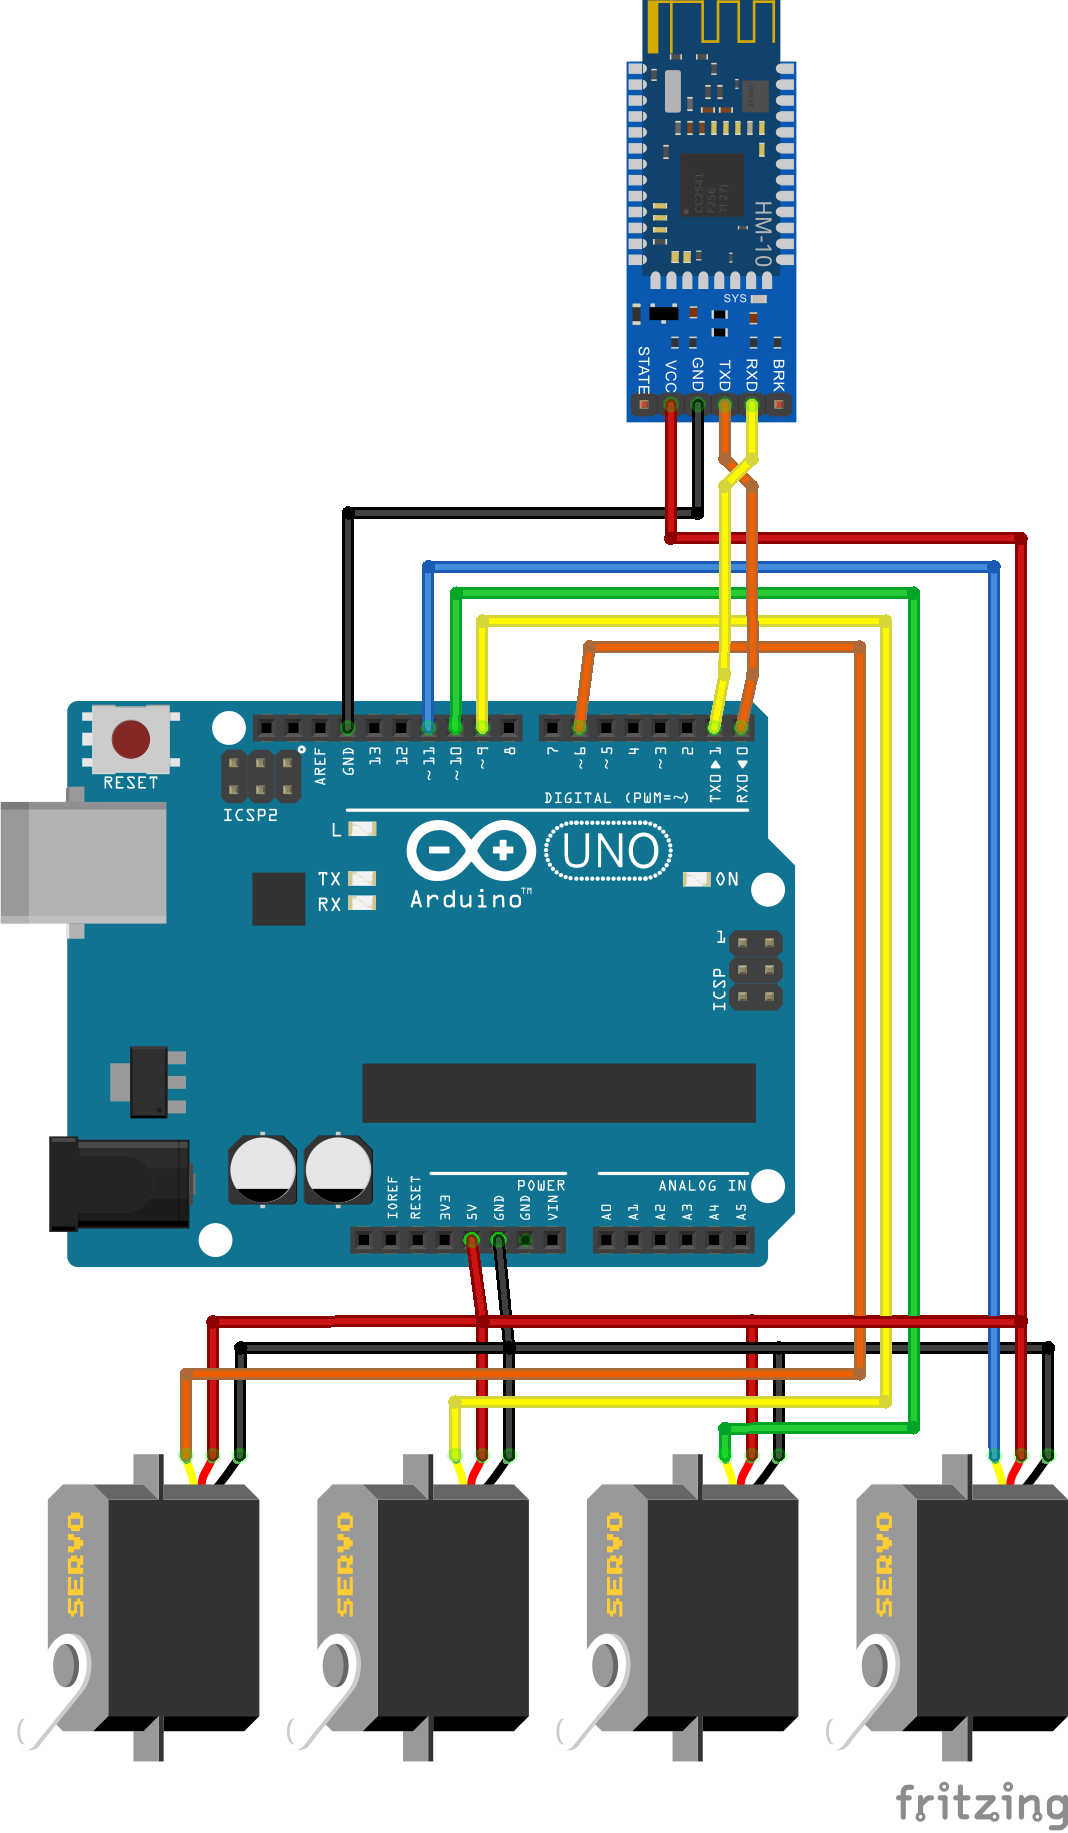
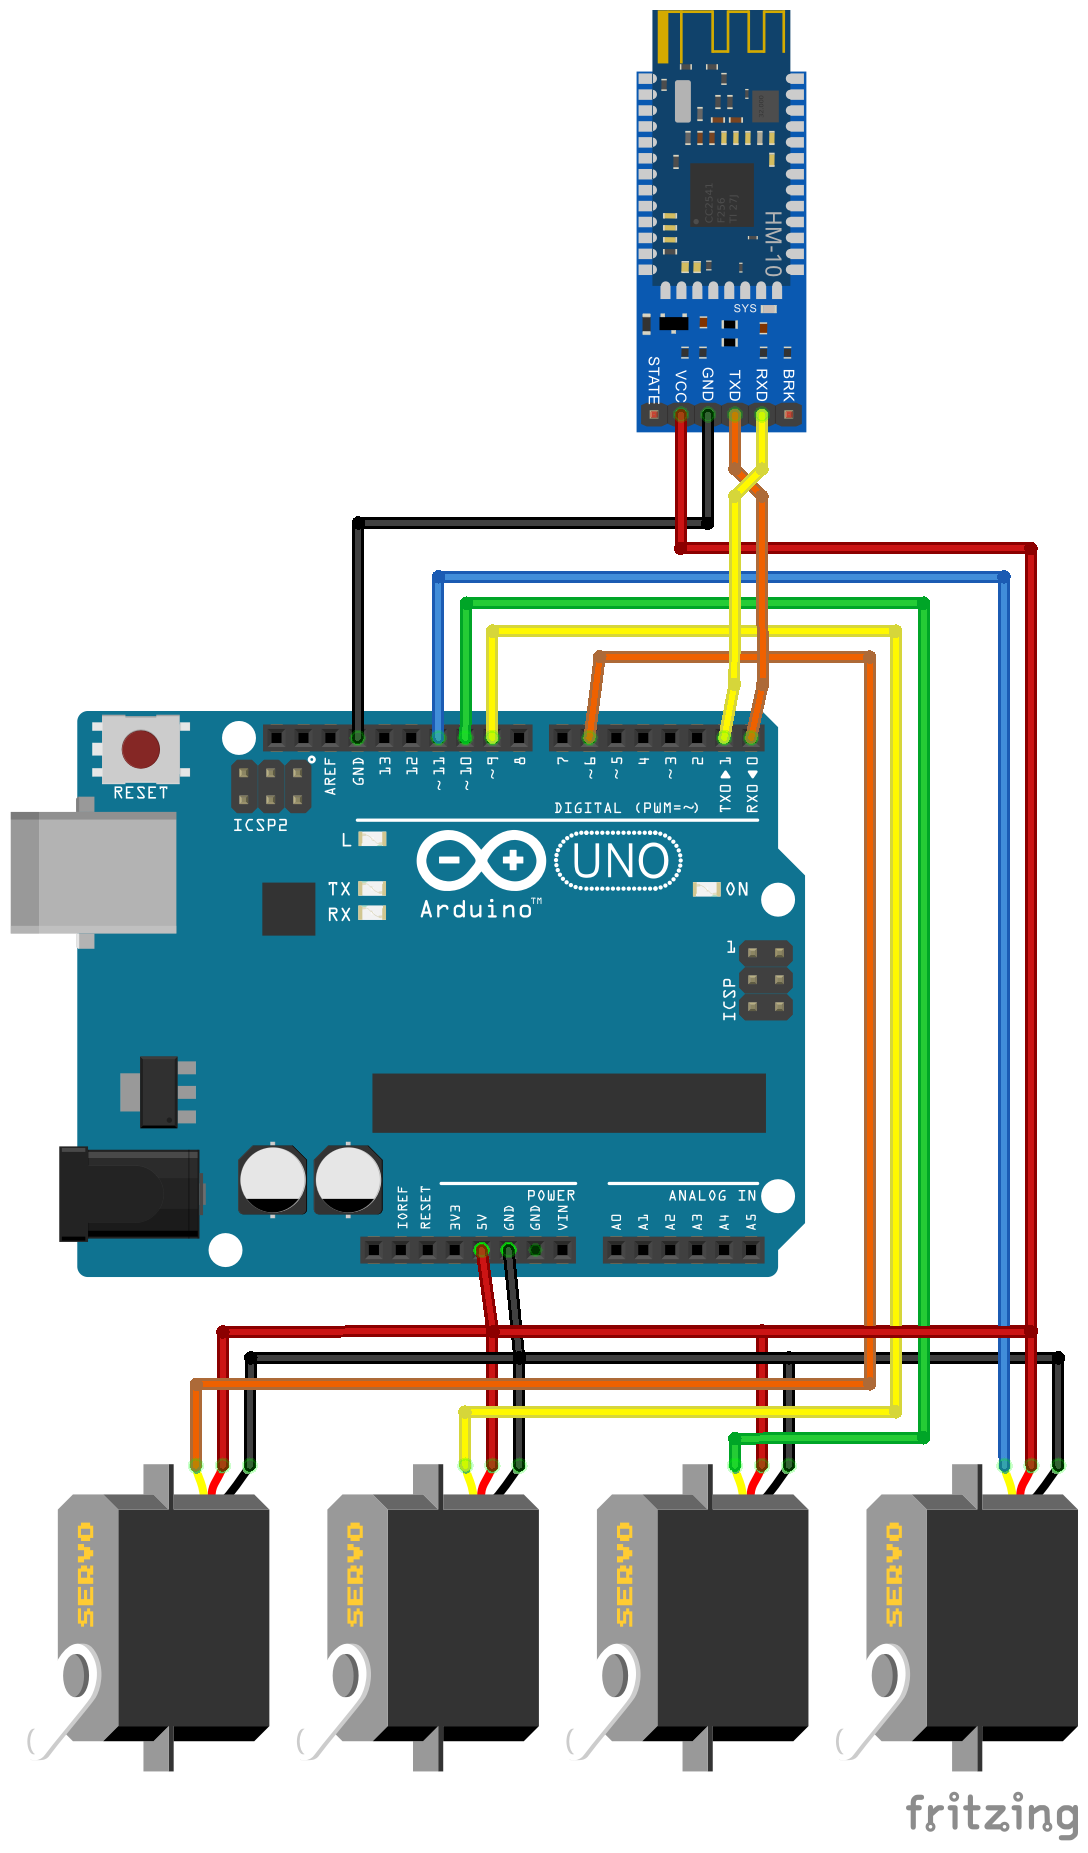
Baudrate in all sketches changed to 9600 for simplicity, `inputBuffer` renamed to `readBuffer`, implemented continuous reading, schemes images resaved for web, added link to the `Web-Bluetooth-Terminal` in `README.md`

Changed region(s): [[0.0309, 0.0, 1.0, 1.0], [0.5562, 0.5908, 0.7416, 0.6841], [0.0, 0.4354, 0.0618, 0.4975]]

diff --git a/README.md b/README.md
@@ -1,1 +1,3 @@
-# MeArm-Controller
+# MeArm Controller
+
+This application based on the [Web Bluetooth Terminal](https://github.com/1oginov/Web-Bluetooth-Terminal/).
